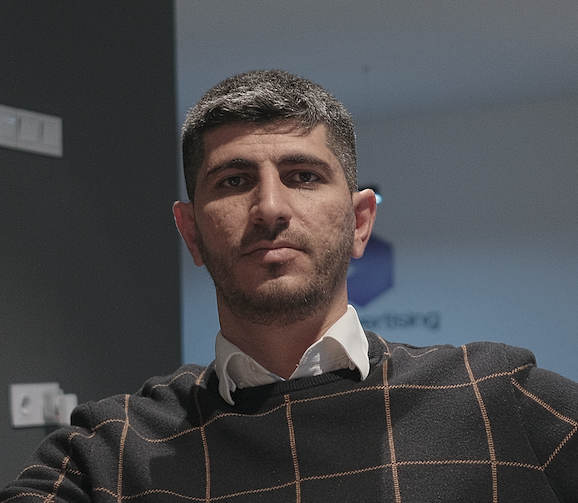
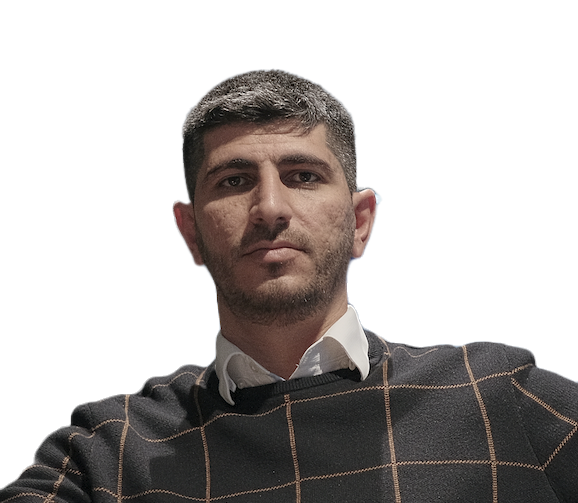
u: update profile picture
- no background
- circular

diff --git a/_sass/components/header.sass b/_sass/components/header.sass
@@ -8,6 +8,7 @@
     > .link > .selfie
         width: 125px
         margin-bottom: 25px
+        border-radius: 100%
         transition: all .2s
         box-shadow: 0
         opacity: 1

diff --git a/_sass/components/author.sass b/_sass/components/author.sass
@@ -7,6 +7,7 @@
 
     > .toleft > .selfie
         width: 90%
+        border-radius: 100%
 
     > .toright > .name,
     > .toright > .bio
